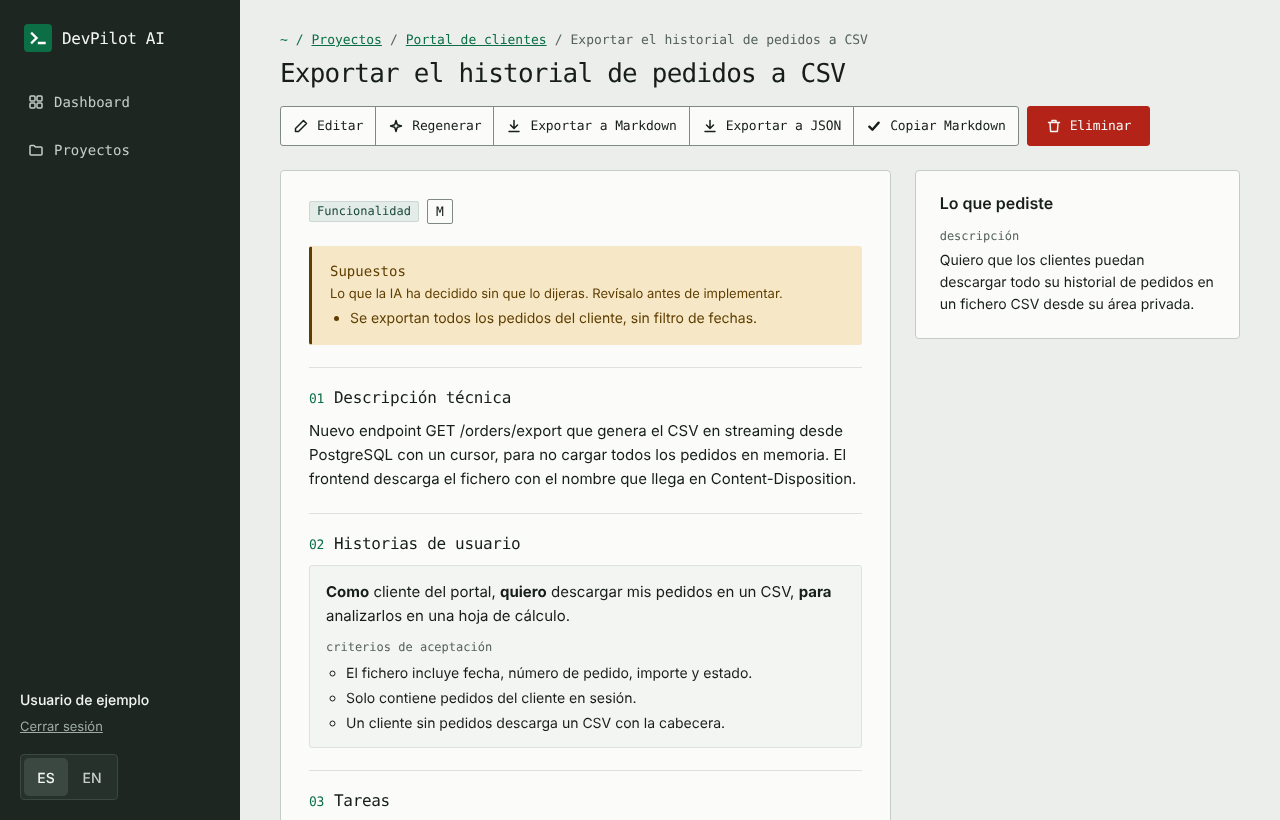
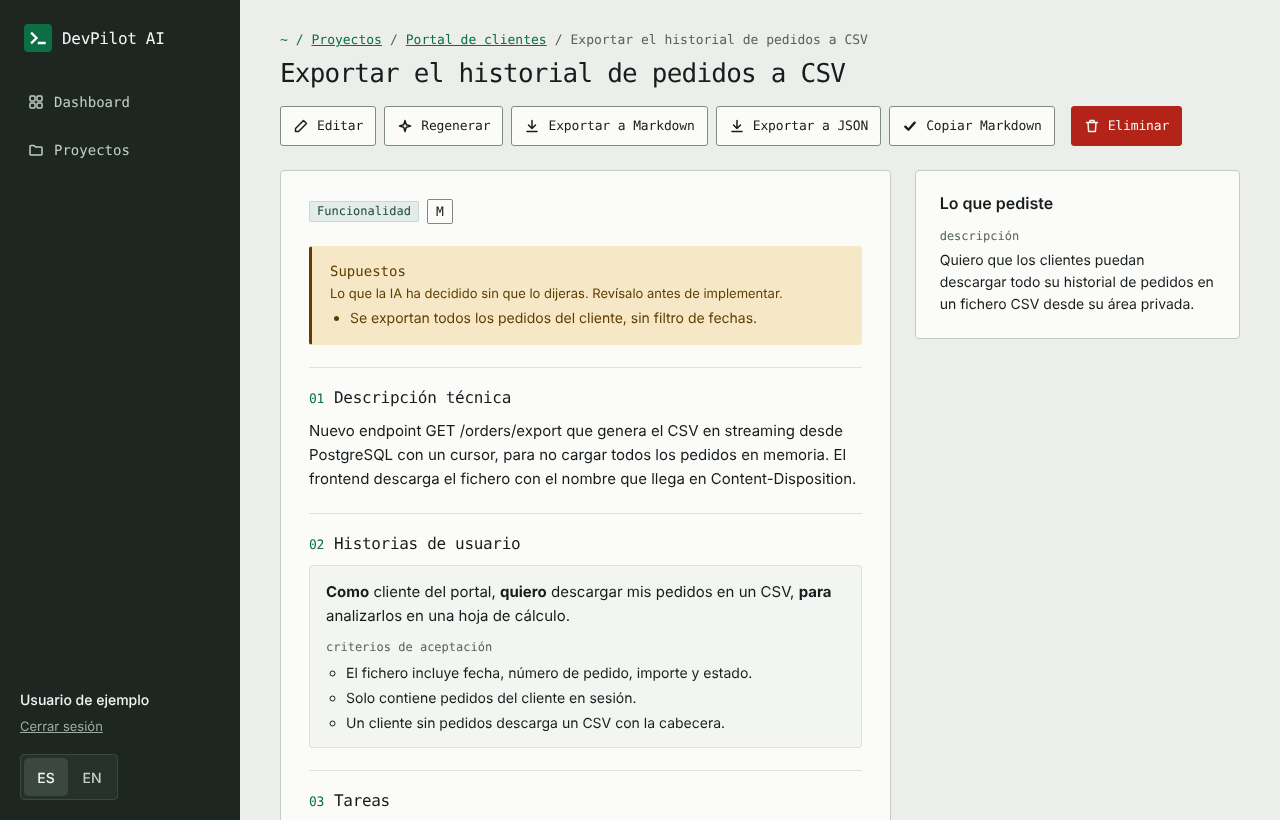
fix(web): separate the generation action buttons

Changed region(s): [[0.3125, 0.122, 0.9375, 0.1829]]

diff --git a/apps/web/src/components/organisms/GenerationActions/GenerationActions.module.css b/apps/web/src/components/organisms/GenerationActions/GenerationActions.module.css
@@ -5,43 +5,21 @@
   gap: 8px;
 }
 
-/* Las acciones sobre la especificación, unidas en una barra de herramientas; eliminar va
-   aparte. Los selectores llevan el elemento para ganar a los estilos propios del botón. */
+/* Las acciones sobre la especificación, juntas en un grupo; eliminar va aparte, con algo
+   más de separación. Los selectores llevan el elemento para ganar a los estilos propios
+   del botón. */
 .toolbar {
   display: flex;
   flex-wrap: wrap;
+  gap: 8px;
+  margin-right: 8px;
 }
 
 .toolbar > a,
-.toolbar > button {
-  height: var(--control-height-sm);
-  padding: 0 12px;
-  border-radius: 0;
-  font-size: 13px;
-}
-
-.toolbar > a + a,
-.toolbar > a + button,
-.toolbar > button + button {
-  margin-left: -1px;
-}
-
-.toolbar > :first-child {
-  border-radius: var(--radius-sm) 0 0 var(--radius-sm);
-}
-
-.toolbar > :last-child {
-  border-radius: 0 var(--radius-sm) var(--radius-sm) 0;
-}
-
-/* El foco siempre se ve entero, por encima del borde del vecino. */
-.toolbar > :focus-visible {
-  position: relative;
-  z-index: 1;
-}
-
+.toolbar > button,
 .actions > button {
   height: var(--control-height-sm);
+  padding: 0 12px;
   font-size: 13px;
 }
 
@@ -50,21 +28,7 @@
     justify-content: flex-start;
   }
 
-  /* En móvil la barra se parte en filas: cada botón recupera sus esquinas. */
   .toolbar {
-    gap: 8px;
-  }
-
-  .toolbar > a,
-  .toolbar > button,
-  .toolbar > :first-child,
-  .toolbar > :last-child {
-    border-radius: var(--radius-sm);
-  }
-
-  .toolbar > a + a,
-  .toolbar > a + button,
-  .toolbar > button + button {
-    margin-left: 0;
+    margin-right: 0;
   }
 }
